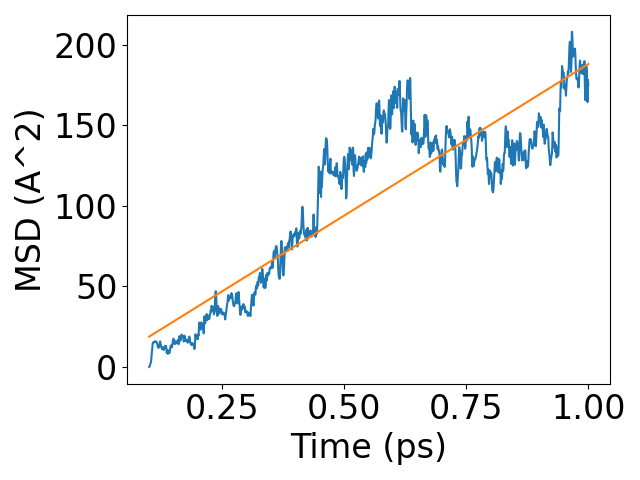
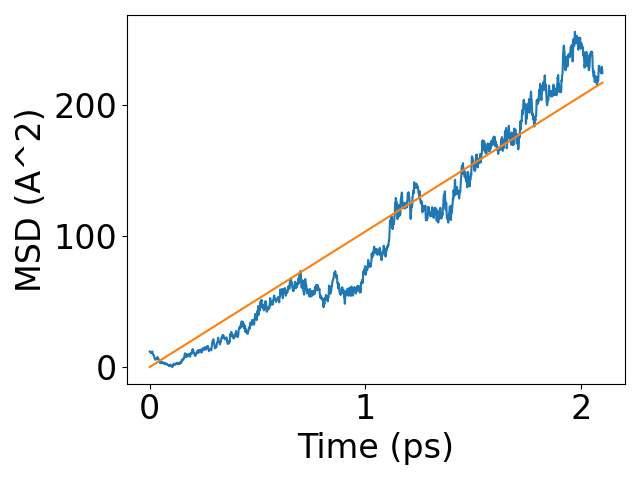
update

diff --git a/proton_diffusion/diffusion.py b/proton_diffusion/diffusion.py
@@ -40,7 +40,7 @@ calc = OCPCalculator(checkpoint_path=checkpoint_path, cpu=False)
 
 bulk = read("BaZrO3.cif")
 ###
-replicate_size = 5
+replicate_size = 4
 each = 10  # step to save trajectory
 ###
 replicate = [replicate_size]*3
@@ -49,8 +49,12 @@ cell_length = bulk.cell.cellpar()
 pos = 0.5 * cell_length[0] / replicate_size
 
 # put hydrogen
-bulk.append(Atom("H", position=[  pos,     0, 0]))
-bulk.append(Atom("H", position=[3*pos, 2*pos, 0]))
+bulk.append(Atom("H", position=[  pos,     0,     0]))
+bulk.append(Atom("H", position=[3*pos, 2*pos,     0]))
+bulk.append(Atom("H", position=[    0, 3*pos, 2*pos]))
+bulk.append(Atom("H", position=[5*pos,     0,     0]))
+bulk.append(Atom("H", position=[8*pos, 7*pos,     0]))
+bulk.append(Atom("H", position=[    0, 8*pos, 7*pos]))
 
 bulk.calc = calc
 
@@ -58,20 +62,22 @@ traj_name = "test.traj"
 temperature_K = 1000
 timestep = 1.0*units.fs  # in fs. Use 1 or 0.5 fs.
 t0 = 0.1  # starting time for taking MSD [ps].
+loginterval = 10
 
-steps    = math.ceil((maxtime_ps+t0)/(timestep*1e-3))
-t0_steps = math.ceil(t0/(timestep*1e-3))
+maxtime_ps = maxtime_ps + t0  # extend maxtime_ps as we discard the initial t0 ps
 
-print(f"temperature [K]: {temperature_K}", flush=True)
-print(f"maximum time [ps]: {maxtime_ps}", flush=True)
-print(f"discard initial trajectories for {t0} [ps].", flush=True)
-print(f"steps: {steps}", flush=True)
+steps   = math.ceil(maxtime_ps/(timestep*1e-3))
+t0steps = math.ceil(t0/(timestep*1e-3))
+
+print(f"Temperature [K]: {temperature_K}", flush=True)
+print(f"Maximum time [ps]: {maxtime_ps} (discard initial {t0} [ps])", flush=True)
+print(f"Number of steps: {steps} (calculate), {int(steps/loginterval)} (write to trajectory)", flush=True)
 
 MaxwellBoltzmannDistribution(bulk, temperature_K=temperature_K)
 dyn = Langevin(bulk, timestep=timestep, temperature_K=temperature_K, friction=0.01/units.fs,
-               trajectory="tmp.traj", logfile="md.log", loginterval=10)  # friction: 0.01-0.1
+               trajectory="tmp.traj", logfile="md.log", loginterval=loginterval)  # friction: 0.01-0.1
 # dyn = NVTBerendsen(bulk, timestep=timestep, temperature_K=temperature_K, taut=0.01*(1000*units.fs),
-#                   trajectory="tmp.traj", logfile="md.log", loginterval=10)  # tout: 0.01-0.1
+#                   trajectory="tmp.traj", logfile="md.log", loginterval=loginterval)  # tout: 0.01-0.1
 dyn.run(steps=steps)
 
 # saveing trajectory file with some interval, as the file becomes too big
@@ -84,15 +90,16 @@ traj = read("tmp.traj", ":")
 H_index = [i for i, x in enumerate(traj[0].get_chemical_symbols()) if x == "H"]
 
 # position of all atoms
-# positions_all = np.array([traj[i].get_positions() for i in range(0, len(traj))])
-positions_all = np.array([traj[i].get_positions() for i in range(t0_steps, steps)])
+start_pos = math.ceil(t0steps/loginterval)  # where to start data
+all_pos   = math.ceil(steps/loginterval)    # should be same with len(traj)
+positions_all = np.array([traj[i].get_positions() for i in range(start_pos, all_pos)])
 
 # position of H
 positions = positions_all[:, H_index]
 
 # total msd. sum along xyz axis & mean along Li atoms axis.
-msd = np.mean(np.sum((positions-positions[0])**2, axis=2), axis=1)
-time = np.linspace(t0, maxtime_ps, len(msd))
+msd  = np.mean(np.sum((positions-positions[start_pos])**2, axis=2), axis=1)
+time = np.linspace(0, maxtime_ps, len(msd))
 
 model = sm.OLS(msd, time)
 result = model.fit()

diff --git a/proton_diffusion/finetuning.py b/proton_diffusion/finetuning.py
@@ -18,8 +18,8 @@ import matplotlib.pyplot as plt
 subprocess.run("rm -rf ./checkpoints/*", shell=True)
 
 # pretrained_model = "DimeNet++-S2EF-ODAC"  # bad
-pretrained_model = "PaiNN-S2EF-OC20-All"
-# pretrained_model = "GemNet-OC-S2EFS-OC20+OC22"  # takes time
+# pretrained_model = "PaiNN-S2EF-OC20-All"
+pretrained_model = "GemNet-OC-S2EFS-OC20+OC22"  # takes time
 
 checkpoint_path = model_name_to_local_file(model_name=pretrained_model, local_cache="../pretrained_checkpoints")
 
